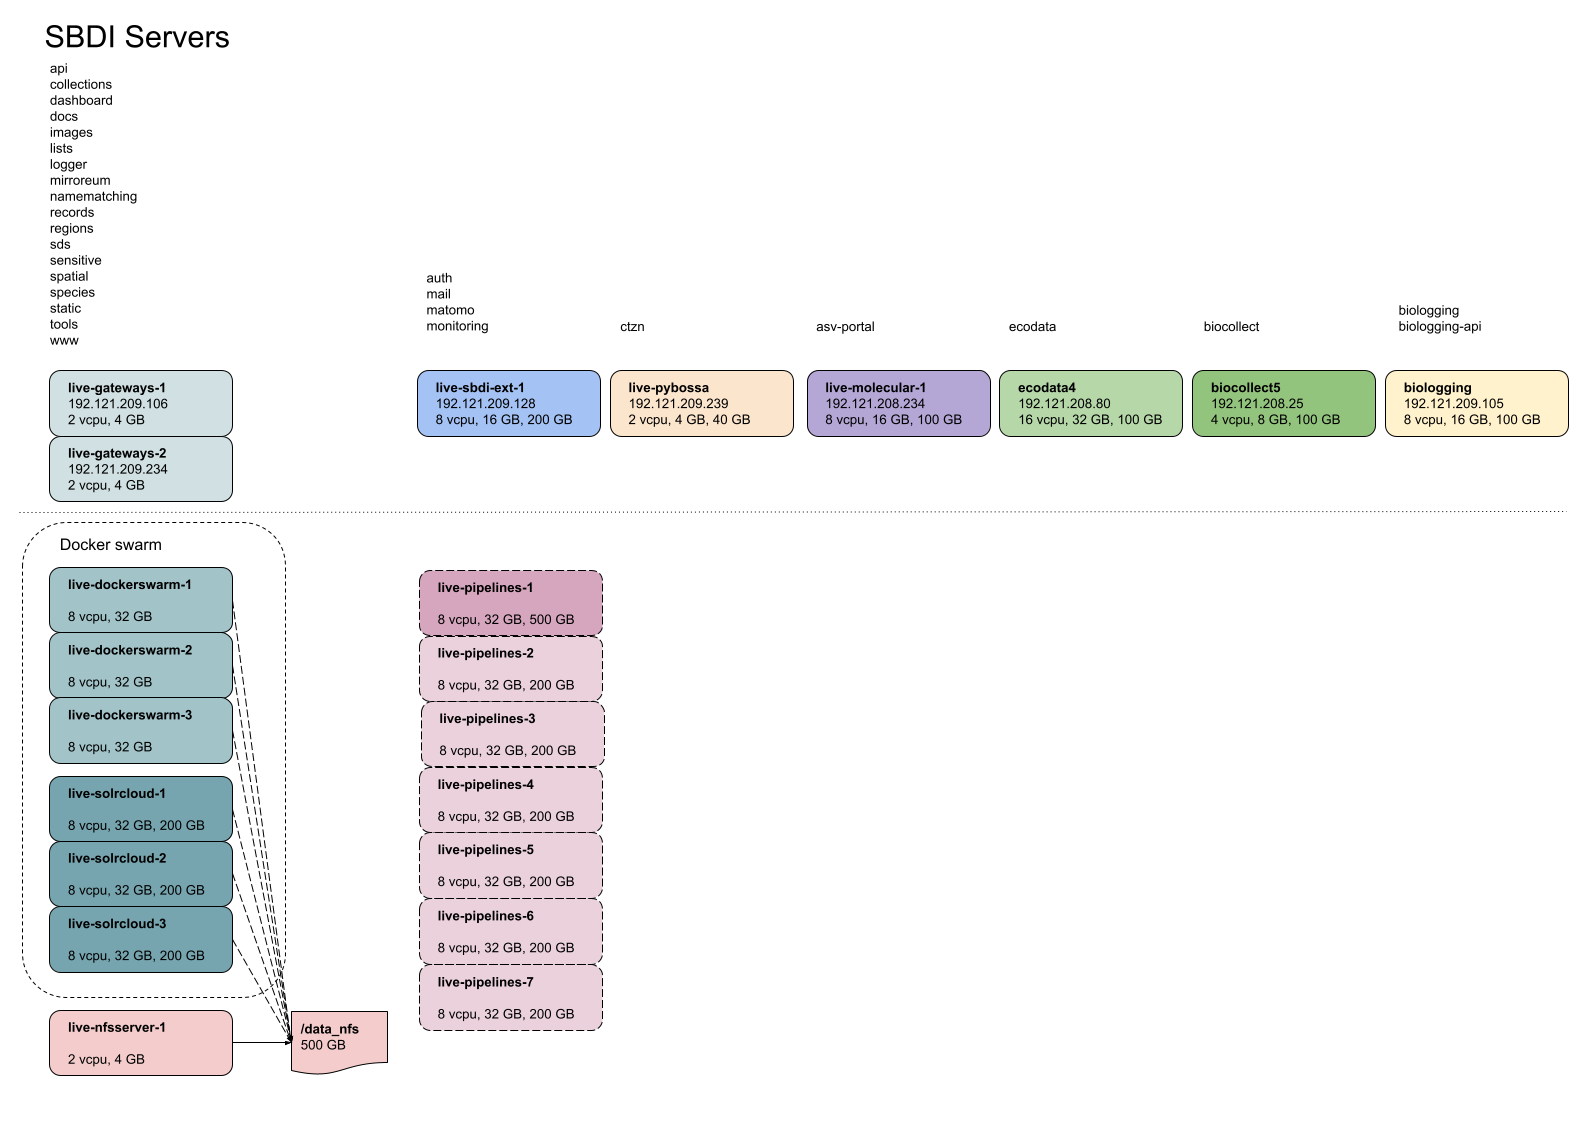
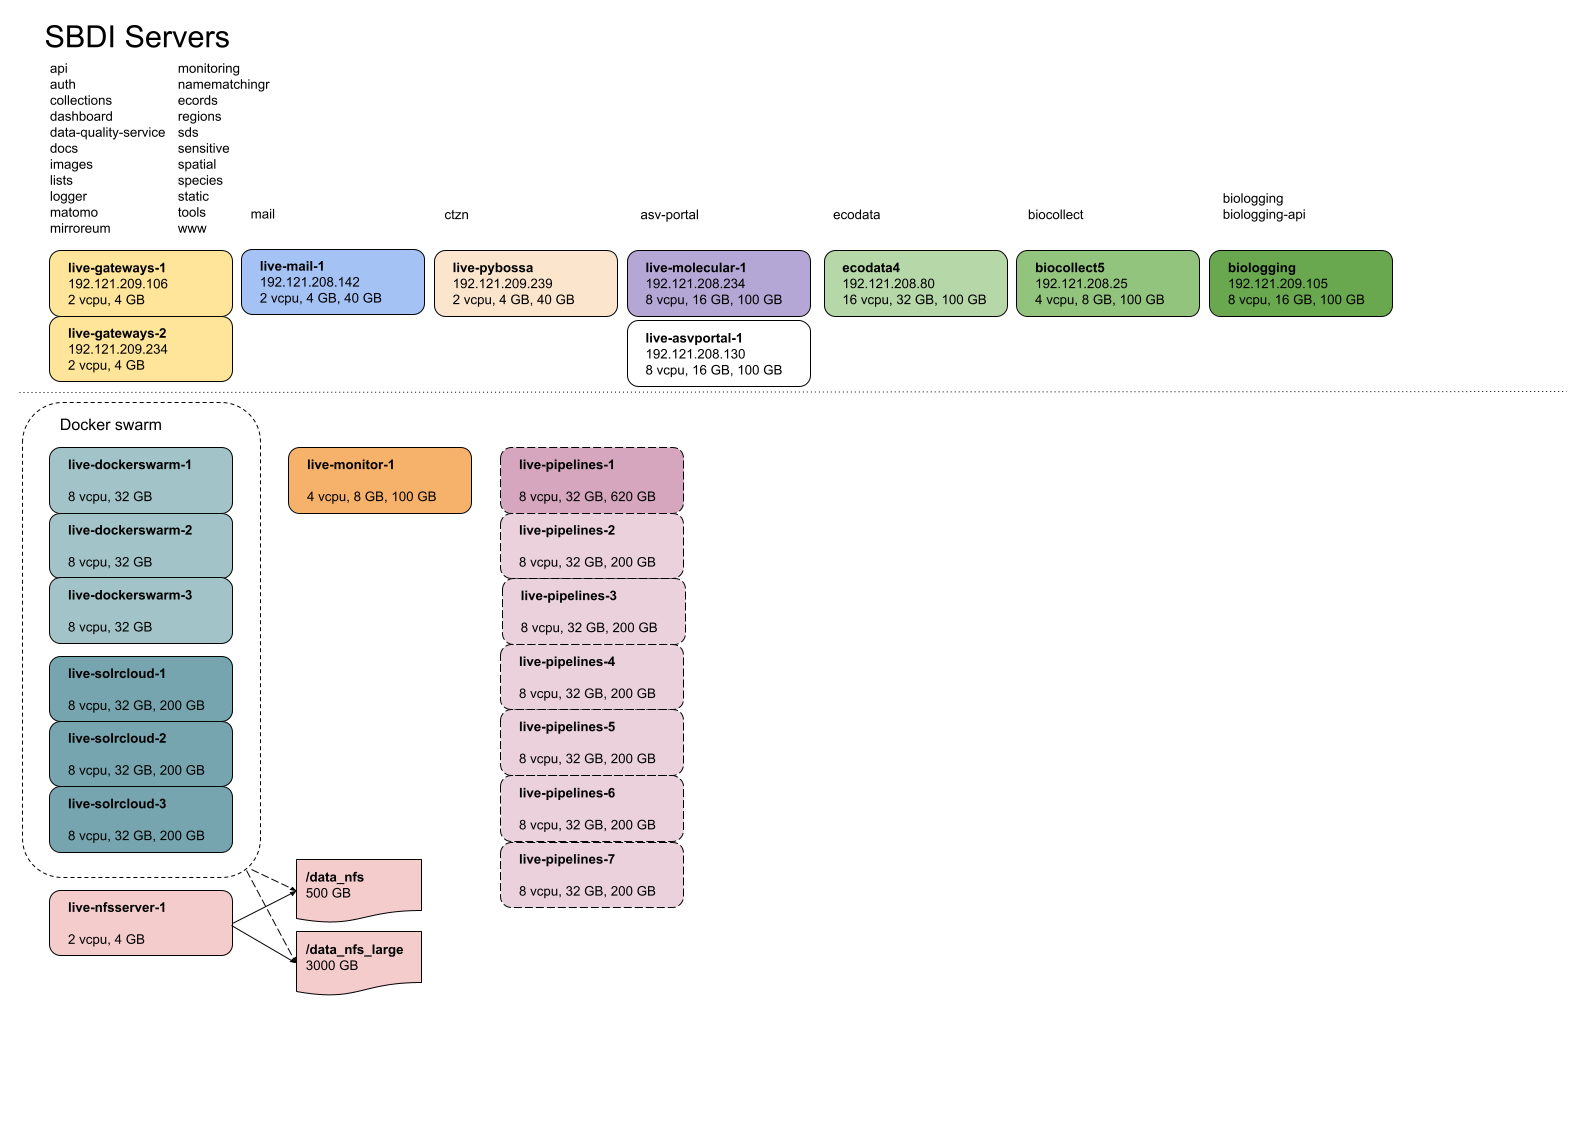
Updated system graphs

Changed region(s): [[0.0309, 0.0624, 0.9887, 0.967]]

diff --git a/README.md b/README.md
@@ -13,8 +13,8 @@ More documentation can also be found in the [wiki](https://github.com/biodiversi
 ![SBDI Servers](images/SBDI-Servers.png)
 
 ### Application overview
-![SBDI Applications swarm](images/SBDI-Applications-swarm.png)
-![SBDI Applications other](images/SBDI-Applications-other.png)
+![SBDI Applications 1](images/SBDI-Applications-1.png)
+![SBDI Applications 2](images/SBDI-Applications-2.png)
 
 ## DevOps
 Many devops tasks are automated using [Ansible](https://www.ansible.com/) and [Terraform](https://www.terraform.io/) and can be found, along with documentation, in the [sbdi-install](https://github.com/biodiversitydata-se/sbdi-install) repository.
